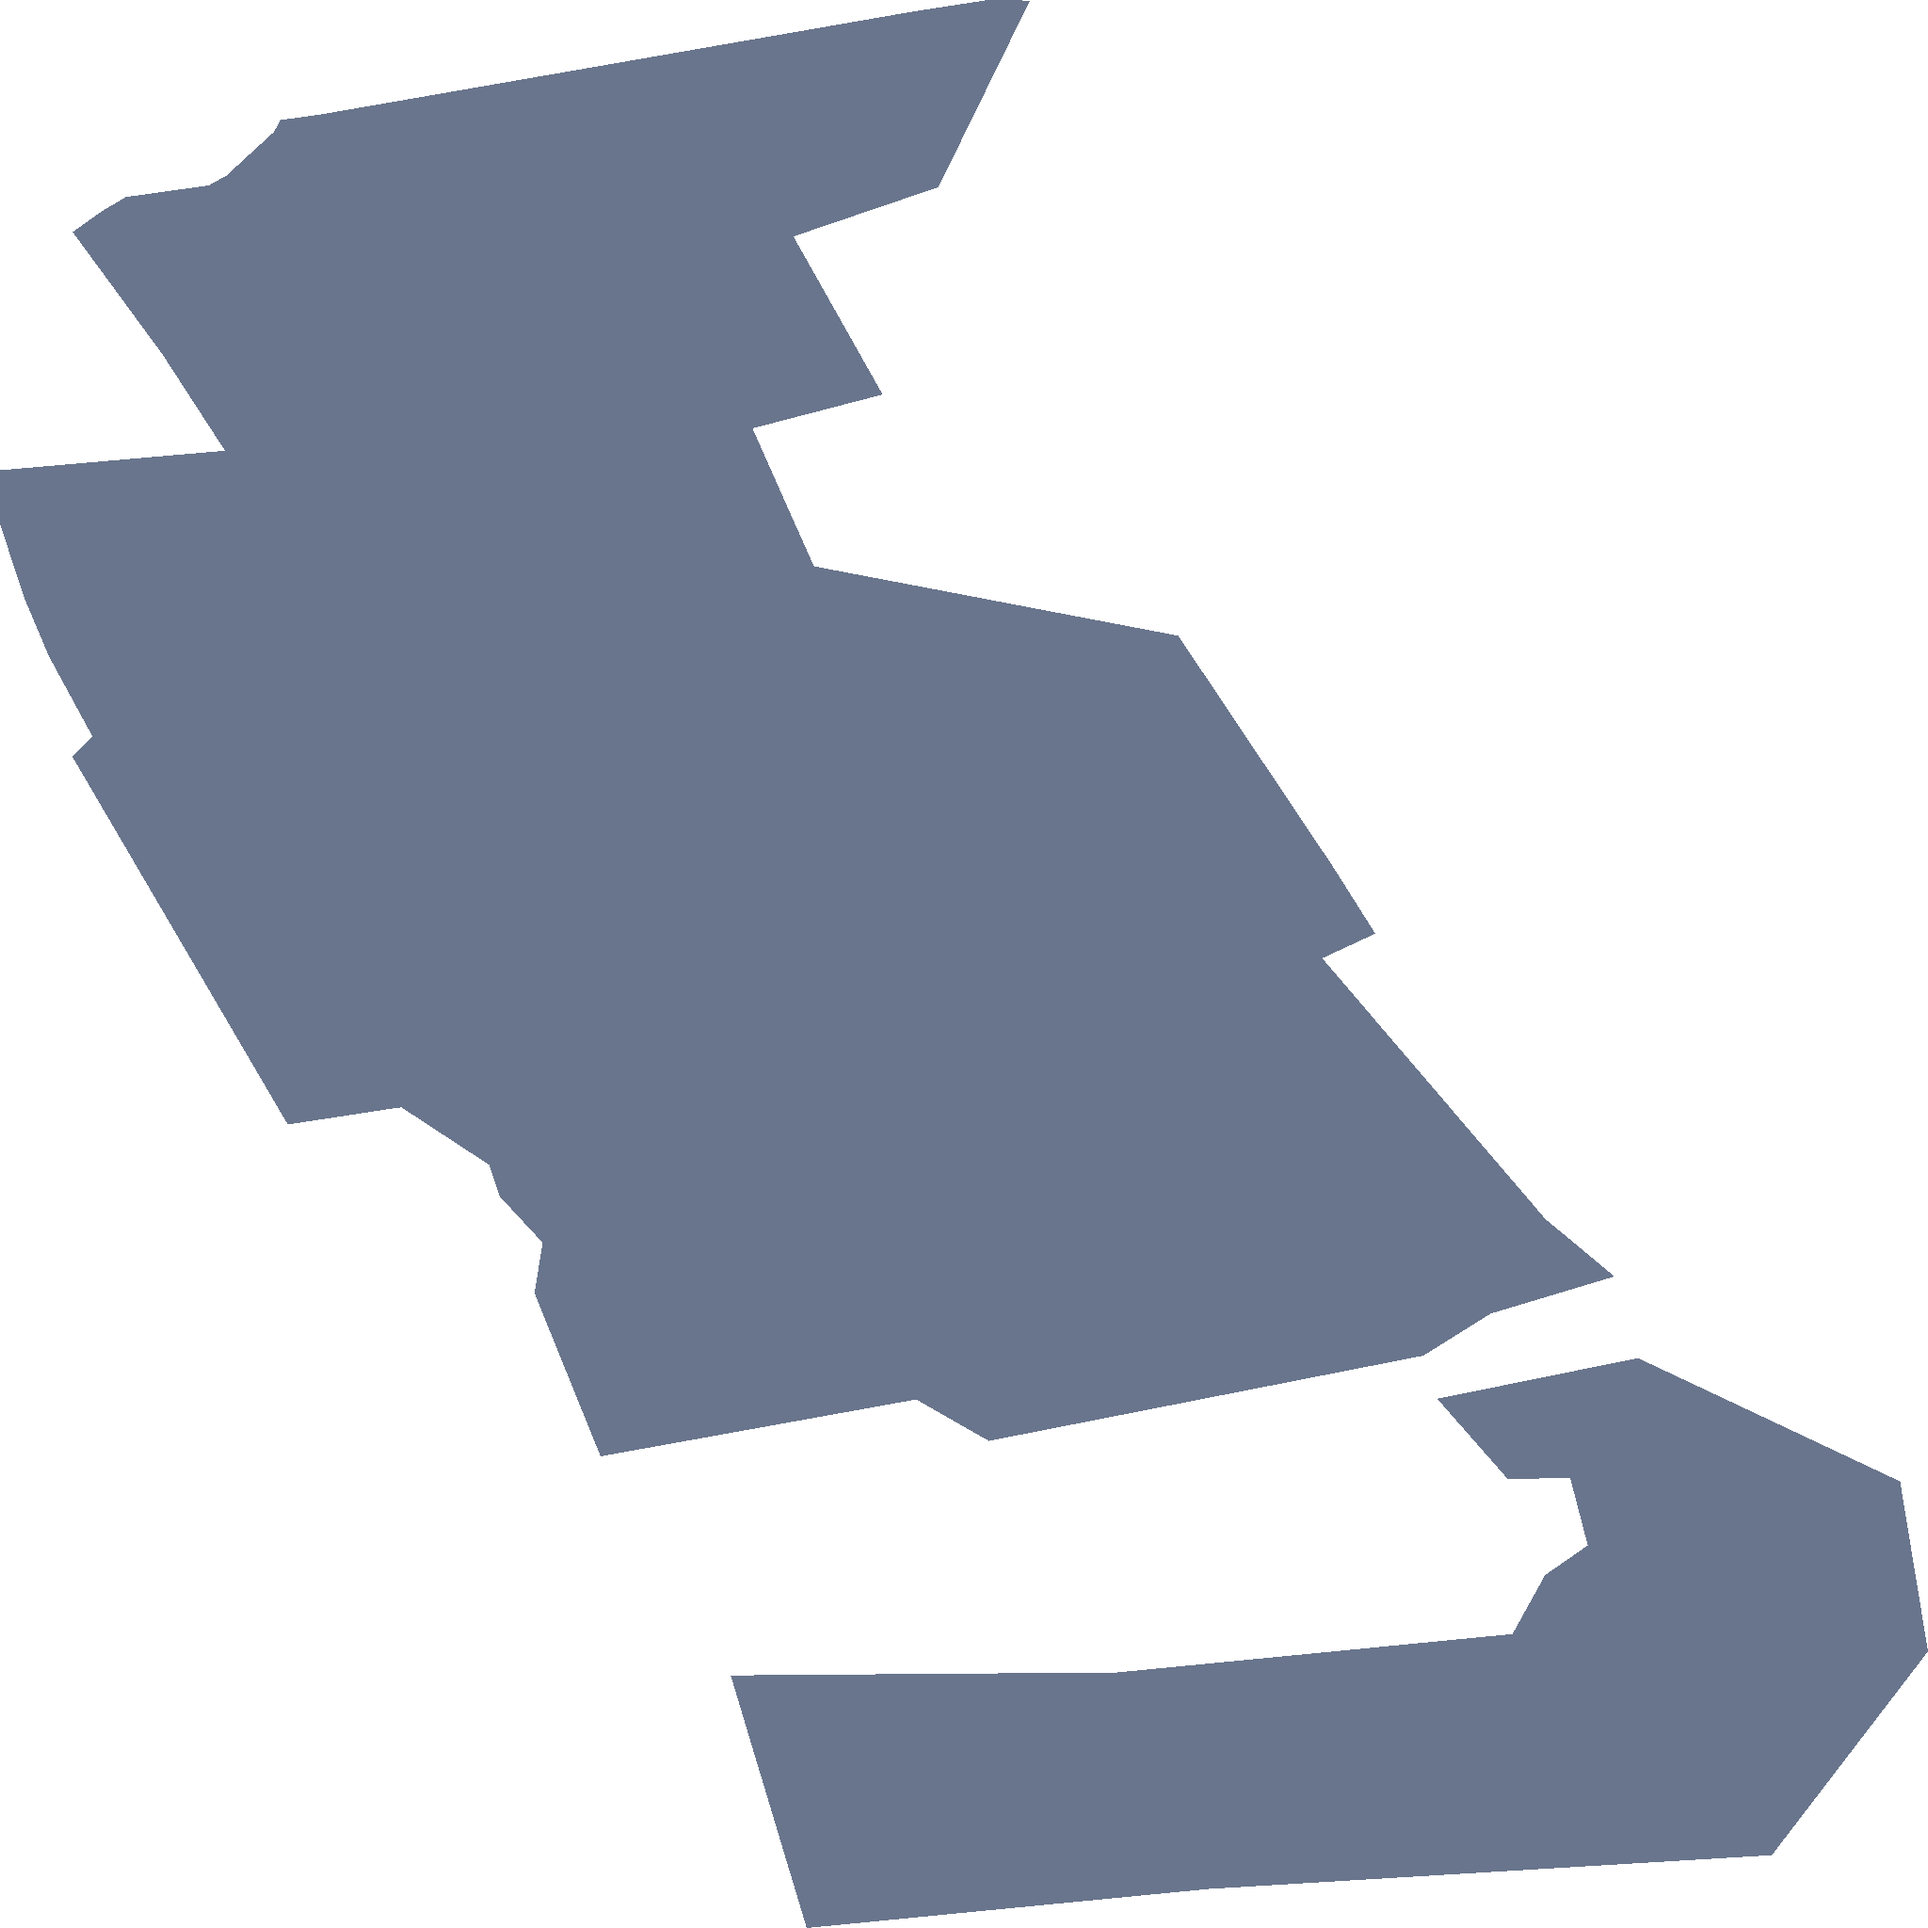
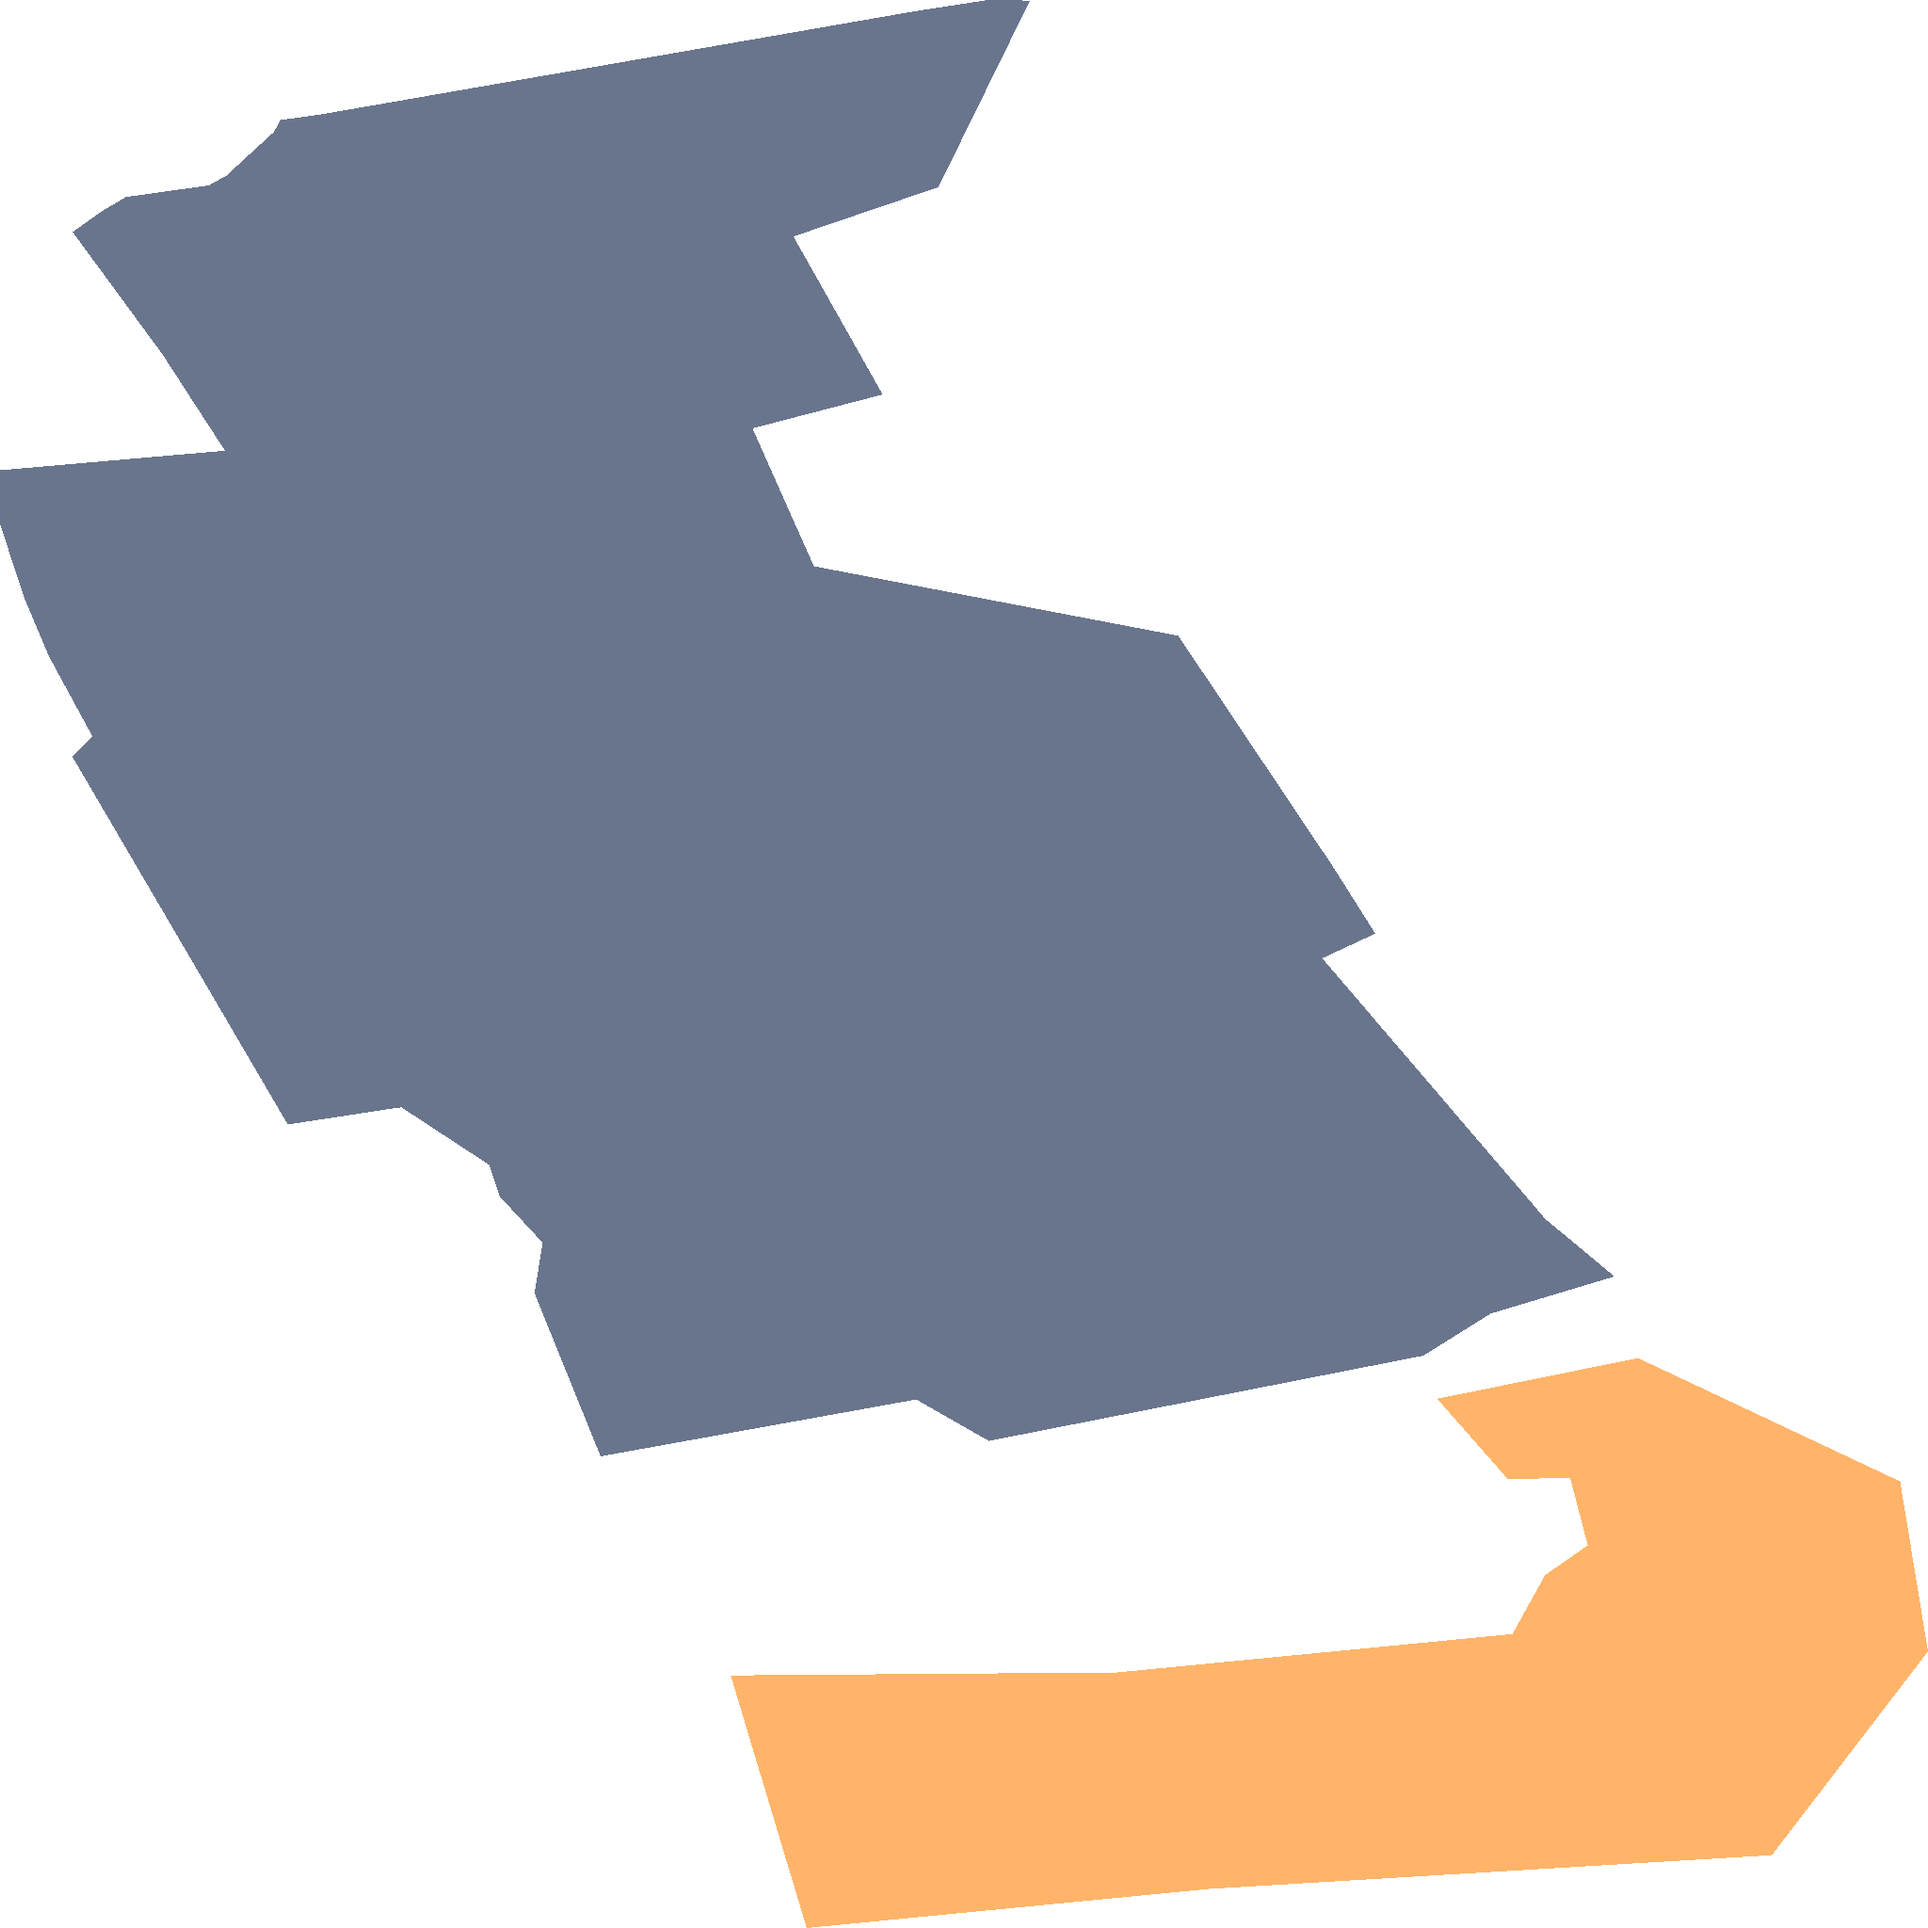
Karte sp_2012

Changed region(s): [[0.375, 0.6875, 1.0, 1.0]]

diff --git a/sp_2012.html b/sp_2012.html
@@ -121,8 +121,6 @@
        .grayscale-tiles, .grayscale-tile {
        filter: grayscale(100%) brightness(95%) contrast(1.1) !important;
        -webkit-filter: grayscale(100%);}
-        //.grayscale-tile {
-        //filter: grayscale(100%);
         }
     </style>
     <link rel="stylesheet" href="https://unpkg.com/leaflet-control-geocoder/dist/Control.Geocoder.css" />
@@ -143,14 +141,14 @@
         L.control.zoom({
             position: 'topleft'
         }).addTo(map);
-        const geoJsonData = {"type": "FeatureCollection", "features": [{"type": "Feature", "geometry": {"type": "MultiPolygon", "coordinates": [[[[9.328135014, 49.130108887], [9.329004927, 49.130221392], [9.329076567, 49.130394168], [9.329170722, 49.130481224], [9.329131832, 49.130679446], [9.328994692, 49.130675428], [9.328839132, 49.13091115], [9.329281252, 49.131030349], [9.329477273, 49.130907546], [9.329858466, 49.130668731], [9.329919872, 49.130170498], [9.329576, 49.129573147], [9.328335605, 49.129474034], [9.327561798, 49.129373975], [9.32751516, 49.129367945], [9.327450569, 49.129359592], [9.327283181, 49.130100108], [9.328135014, 49.130108887]]]]}, "properties": {"dgn_phase": 2}}, {"type": "Feature", "geometry": {"type": "MultiPolygon", "coordinates": [[[[9.327942201, 49.1350103], [9.327740654, 49.134463358], [9.327421343, 49.134318721], [9.327617841, 49.133855344], [9.327331282, 49.13375624], [9.327466374, 49.133351786], [9.328268742, 49.133148217], [9.32860852, 49.132473224], [9.328702675, 49.13227501], [9.32858589, 49.13220254], [9.329077136, 49.131438245], [9.329229399, 49.131269641], [9.329225738, 49.131268179], [9.328956485, 49.13116071], [9.328808771, 49.131037642], [9.327851752, 49.130787634], [9.327691642, 49.130909066], [9.326996622, 49.130742395], [9.326851068, 49.131220979], [9.326869261, 49.131368602], [9.326774652, 49.131504318], [9.326751339, 49.131596879], [9.326558602, 49.131765177], [9.326547527, 49.131764031], [9.326307855, 49.131715184], [9.326288673, 49.131758789], [9.326178188, 49.132009941], [9.325832985, 49.132794651], [9.3258775, 49.1328533], [9.3257818, 49.1330881], [9.3257271, 49.1332604], [9.3256741, 49.1334762], [9.325674808, 49.133633476], [9.326169692, 49.133690617], [9.326031416, 49.133973941], [9.3258342, 49.1343316], [9.325898501, 49.1343928], [9.32595136, 49.134434341], [9.326133532, 49.134468268], [9.326172421, 49.134496838], [9.326277493, 49.134625404], [9.3262914, 49.1346599], [9.3263833, 49.1346771], [9.327194764, 49.134864739], [9.3276928, 49.1349799], [9.3278496, 49.135012], [9.327896016, 49.135011148], [9.327942201, 49.1350103]]]]}, "properties": {"dgn_phase": 2}}]};
+        const geoJsonData = {"type": "FeatureCollection", "features": [{"type": "Feature", "geometry": {"type": "MultiPolygon", "coordinates": [[[[9.328135014, 49.130108887], [9.329004927, 49.130221392], [9.329076567, 49.130394168], [9.329170722, 49.130481224], [9.329131832, 49.130679446], [9.328994692, 49.130675428], [9.328839132, 49.13091115], [9.329281252, 49.131030349], [9.329477273, 49.130907546], [9.329858466, 49.130668731], [9.329919872, 49.130170498], [9.329576, 49.129573147], [9.328335605, 49.129474034], [9.327561798, 49.129373975], [9.32751516, 49.129367945], [9.327450569, 49.129359592], [9.327283181, 49.130100108], [9.328135014, 49.130108887]]]]}, "properties": {"dgn_phase": 1}}, {"type": "Feature", "geometry": {"type": "MultiPolygon", "coordinates": [[[[9.327942201, 49.1350103], [9.327740654, 49.134463358], [9.327421343, 49.134318721], [9.327617841, 49.133855344], [9.327331282, 49.13375624], [9.327466374, 49.133351786], [9.328268742, 49.133148217], [9.32860852, 49.132473224], [9.328702675, 49.13227501], [9.32858589, 49.13220254], [9.329077136, 49.131438245], [9.329229399, 49.131269641], [9.329225738, 49.131268179], [9.328956485, 49.13116071], [9.328808771, 49.131037642], [9.327851752, 49.130787634], [9.327691642, 49.130909066], [9.326996622, 49.130742395], [9.326851068, 49.131220979], [9.326869261, 49.131368602], [9.326774652, 49.131504318], [9.326751339, 49.131596879], [9.326558602, 49.131765177], [9.326547527, 49.131764031], [9.326307855, 49.131715184], [9.326288673, 49.131758789], [9.326178188, 49.132009941], [9.325832985, 49.132794651], [9.3258775, 49.1328533], [9.3257818, 49.1330881], [9.3257271, 49.1332604], [9.3256741, 49.1334762], [9.325674808, 49.133633476], [9.326169692, 49.133690617], [9.326031416, 49.133973941], [9.3258342, 49.1343316], [9.325898501, 49.1343928], [9.32595136, 49.134434341], [9.326133532, 49.134468268], [9.326172421, 49.134496838], [9.326277493, 49.134625404], [9.3262914, 49.1346599], [9.3263833, 49.1346771], [9.327194764, 49.134864739], [9.3276928, 49.1349799], [9.3278496, 49.135012], [9.327896016, 49.135011148], [9.327942201, 49.1350103]]]]}, "properties": {"dgn_phase": 2}}]};
          L.imageOverlay("output_tiles/sp_2012.png", bounds).addTo(map);
         const zoomFullExtentControl = L.Control.extend({
             options: { position: 'topleft' },
             onAdd: function () {
                 const container = L.DomUtil.create('div', 'custom-control');
                 container.innerHTML = '<i class="fas fa-home"></i>';
-                L.DomEvent.on(container, 'click', () => map.setView(initialCoordinates, initialZoomLevel));
+                L.DomEvent.on(container, 'click', () => map.fitBounds(bounds));
                 return container;
             }
         });
@@ -170,7 +168,7 @@
         map.addControl(new legendControl());
         const markerLayerGroup = L.layerGroup().addTo(map);
         const geocoder = L.Control.geocoder({
-            defaultMarkGeocode: false //default rausnehmen
+            defaultMarkGeocode: false
         })
             .on('markgeocode', function (e) {
                 markerLayerGroup.clearLayers();
@@ -180,7 +178,7 @@
                 });
                 const marker = L.marker(latlng, { icon: customMarker });
                 markerLayerGroup.addLayer(marker);
-                map.fitBounds(bounds);//map.setView(latlng, 14);
+                map.fitBounds(bounds);
             })
             .addTo(map);
     </script>
